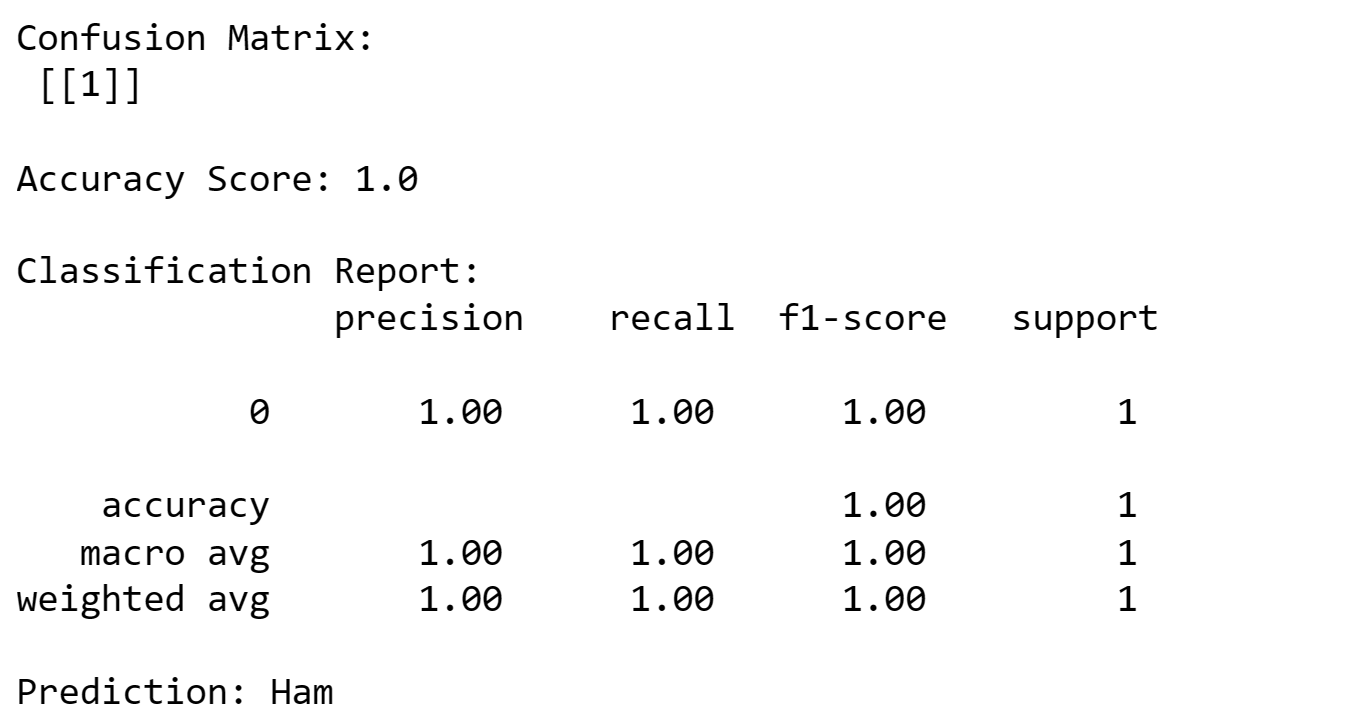
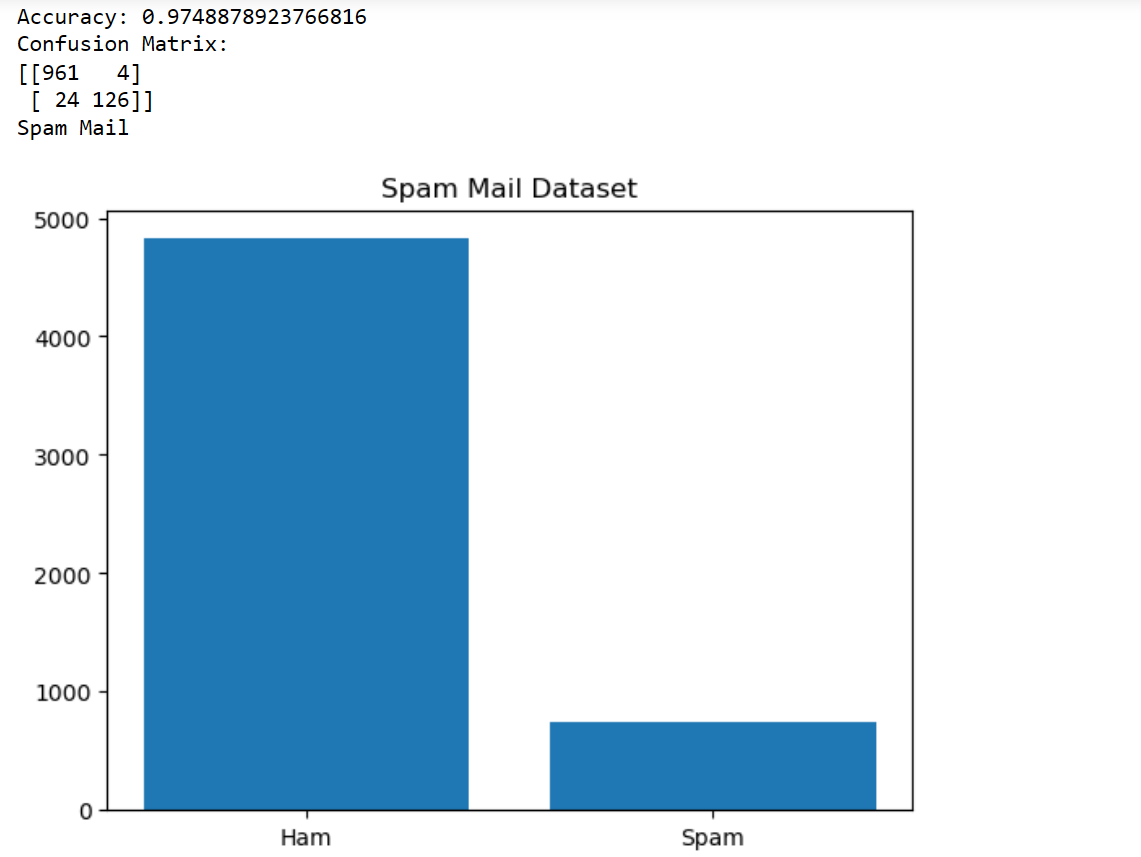
success

diff --git a/README.md b/README.md
@@ -9,7 +9,13 @@ To write a program to implement the SVM For Spam Mail Detection.
 
 ## Algorithm
 
+1.Import the packages.
 
+2.Analyse the data.
+
+3.Use modelselection and Countvectorizer to preditct the values.
+
+4.Find the accuracy and display the result.
 
 ## Program:
 ```
@@ -21,66 +27,56 @@ import pandas as pd
 from sklearn.feature_extraction.text import TfidfVectorizer
 from sklearn.model_selection import train_test_split
 from sklearn.svm import SVC
-from sklearn.metrics import classification_report, confusion_matrix, accuracy_score
+from sklearn.metrics import accuracy_score, confusion_matrix
+import matplotlib.pyplot as plt
 
-# ------------------------------
-# Step 1: Create dataset
-# ------------------------------
-data = {
-    'v1': ['ham','ham','spam','ham','ham'],
-    'v2': [
-        'Go until jurong point, crazy.. Available only in bugis n great world la e buffet... Cine there got amore wat...',
-        'Ok lar... Joking wif u oni...',
-        "Free entry in 2 a wkly comp to win FA Cup final tkts 21st May 2005. Text FA to 87121 to receive entry question(std txt rate)T&C's apply 08452810075over18's",
-        'U dun say so early hor... U c already then say...',
-        'Nah I don\'t think he goes to usf, he lives around here though'
-    ]
-}
+df = pd.read_csv("spam.csv", encoding='latin-1')
 
-df = pd.DataFrame(data)
+df = df[['v1', 'v2']]
 
-# ------------------------------
-# Step 2: Encode labels (ham=0, spam=1)
-# ------------------------------
-df['label'] = df['v1'].map({'ham':0, 'spam':1})
+df.columns = ['label', 'message']
 
-# ------------------------------
-# Step 3: Feature extraction (TF-IDF)
-# ------------------------------
-vectorizer = TfidfVectorizer(stop_words='english')
-X = vectorizer.fit_transform(df['v2'])
+df['label'] = df['label'].map({'ham':0, 'spam':1})
+
+X = df['message']
+
 y = df['label']
 
-# ------------------------------
-# Step 4: Train-test split
-# ------------------------------
-X_train, X_test, y_train, y_test = train_test_split(X, y, test_size=0.2, random_state=42)
+tfidf = TfidfVectorizer(stop_words='english')
 
-# ------------------------------
-# Step 5: Train SVM classifier
-# ------------------------------
-svm_model = SVC(kernel='linear', C=1.0, random_state=42)
-svm_model.fit(X_train, y_train)
+X = tfidf.fit_transform(X)
 
-# ------------------------------
-# Step 6: Make predictions
-# ------------------------------
-y_pred = svm_model.predict(X_test)
+X_train, X_test, y_train, y_test = train_test_split(
+    X, y, test_size=0.2, random_state=42
+)
 
-# ------------------------------
-# Step 7: Evaluate the model
-# ------------------------------
-print("Confusion Matrix:\n", confusion_matrix(y_test, y_pred))
-print("\nAccuracy Score:", accuracy_score(y_test, y_pred))
-print("\nClassification Report:\n", classification_report(y_test, y_pred))
+model = SVC(kernel='linear')
 
-# ------------------------------
-# Step 8: Predict new message
-# ------------------------------
-new_message = ["Congratulations! You have won a free ticket to Bahamas. Call now!"]
-new_message_vect = vectorizer.transform(new_message)
-prediction = svm_model.predict(new_message_vect)
-print(f"Prediction: {'Spam' if prediction[0]==1 else 'Ham'}")
+model.fit(X_train, y_train)
+
+y_pred = model.predict(X_test)
+
+print("Accuracy:", accuracy_score(y_test, y_pred))
+
+print("Confusion Matrix:")
+print(confusion_matrix(y_test, y_pred))
+
+new_mail = ["Congratulations! You won a free iPhone"]
+
+new_mail = tfidf.transform(new_mail)
+
+prediction = model.predict(new_mail)
+
+if prediction[0] == 1:
+    print("Spam Mail")
+else:
+    print("Ham Mail")
+
+plt.bar(['Ham', 'Spam'], df['label'].value_counts().sort_index())
+
+plt.title("Spam Mail Dataset")
+
+plt.show()
 
 Developed by: Swathi P N
 RegisterNumber:  212225230279